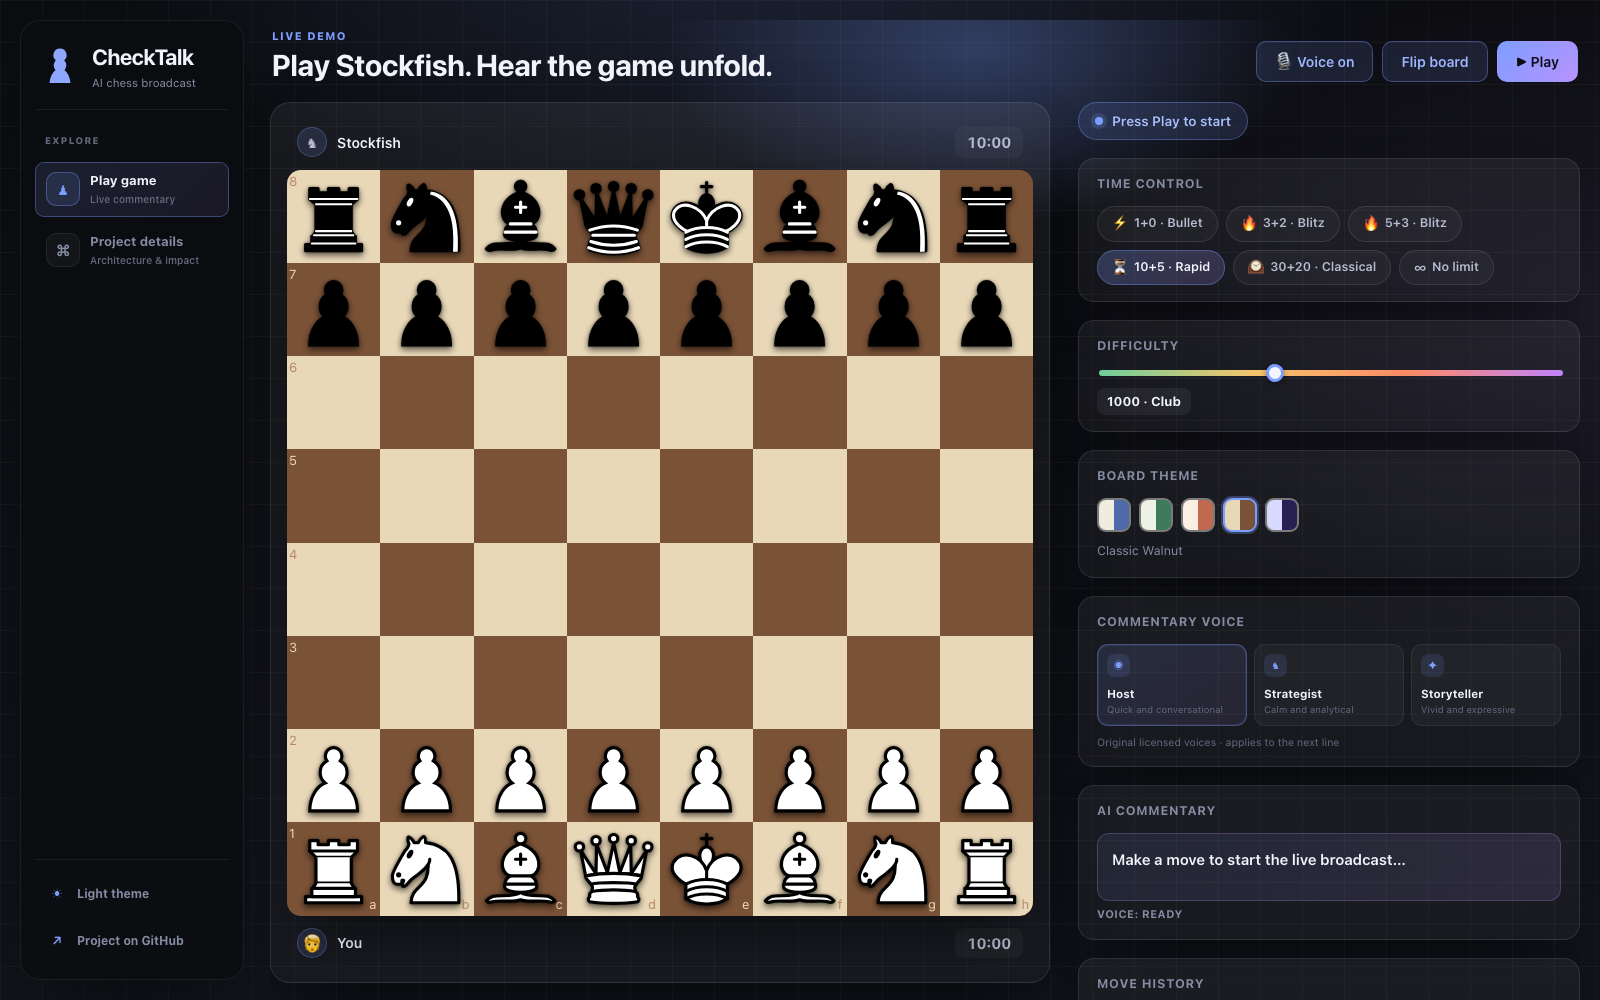
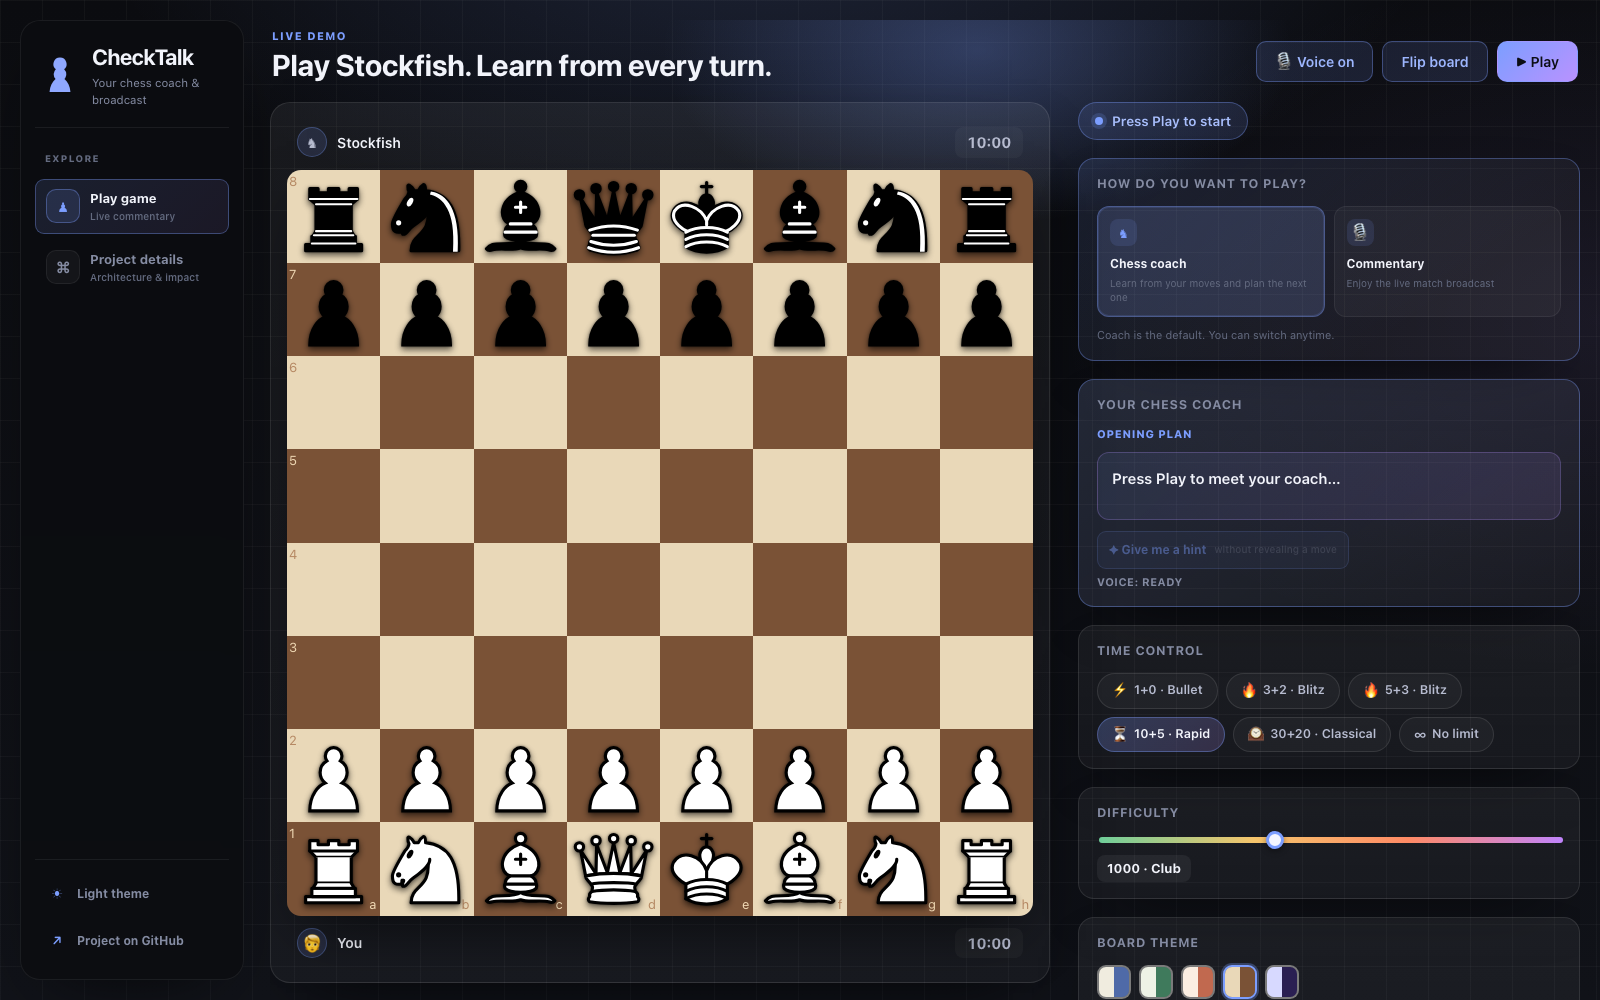
Present CheckTalk as a coach-first data product

diff --git a/README.md b/README.md
@@ -4,7 +4,7 @@
 
 [Explore the live data product](https://checktalk.hakeshk.com) · [Read the in-app engineering story](https://checktalk.hakeshk.com/#project)
 
-![CheckTalk gameplay with Stockfish, live commentary, and configurable controls](screenshots/gameplay.png)
+![CheckTalk chess coach with Stockfish, position-specific guidance, and configurable controls](screenshots/gameplay.png)
 
 ## The data engineering story
 
@@ -18,7 +18,7 @@ The chess interface is the event producer and live demonstration. Underneath it 
 4. Handles consumer failures without replaying successful records.
 5. Stores immutable raw events in an encrypted Bronze layer.
 6. Exposes the history through a cataloged, guardrailed query layer.
-7. Uses the trusted operational context to support a low-latency AI commentary experience.
+7. Uses trusted operational context to support a low-latency chess coach, with live commentary as an alternate experience.
 
 I designed and built the complete lifecycle: event modeling, ingestion, stream partitioning, fault-tolerant persistence, storage layout, metadata catalog, query controls, observability, infrastructure, deployment, and the product that generates the data.
 
@@ -70,7 +70,7 @@ React + Stockfish → API Gateway → Lambda → Bedrock + Polly
 
 The synchronous path serves the live product, while the analytical path remains asynchronous. Both originate from the same game domain, but analytics backpressure cannot delay a move. Stockfish and deterministic classifiers establish the facts; AI is used only to turn trusted context into a concise spoken line.
 
-This is intentionally a data platform with an AI-powered serving use case—not an AI model presented as the system of record.
+This is intentionally a data platform with an AI-powered serving use case—not an AI model presented as the system of record. The coach teaches from verified board facts and shallow engine signals; it does not claim to know an unverified best move.
 
 ## Data reliability and operability
 
@@ -102,7 +102,8 @@ This is intentionally a data platform with an AI-powered serving use case—not 
 
 The platform supports a polished live product while demonstrating that infrastructure through an understandable domain:
 
-- Opening-aware commentary grounded in Stockfish and deterministic position context.
+- Coach-first play with concise move feedback, a next-decision question after Stockfish replies, and an on-demand hint.
+- An optional live commentary mode grounded in Stockfish and deterministic position context.
 - Three original commentary delivery profiles.
 - Multiple time controls and engine difficulty levels.
 - Session history and replay for the latest three games.
@@ -113,7 +114,7 @@ The platform supports a polished live product while demonstrating that infrastru
 
 ## Verification
 
-- **39 backend unit tests** across event ingestion, persistence, commentary classification, opening recognition, and position context.
+- **49 backend unit tests** across event ingestion, persistence, coaching and commentary behavior, opening recognition, and position context.
 - Stream-ingestion tests for validation, partition keys, and accepted-record responses.
 - Persistence tests for S3 object layout and partial batch failures.
 - Production smoke checks covering ingestion, S3 persistence, Athena visibility, and dead-letter queue health.
